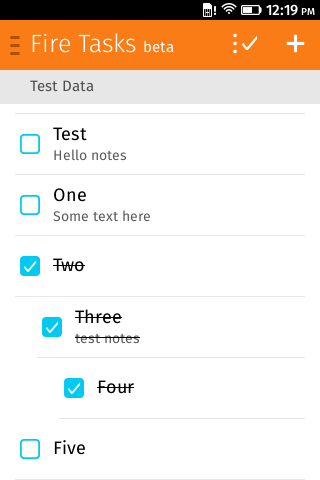
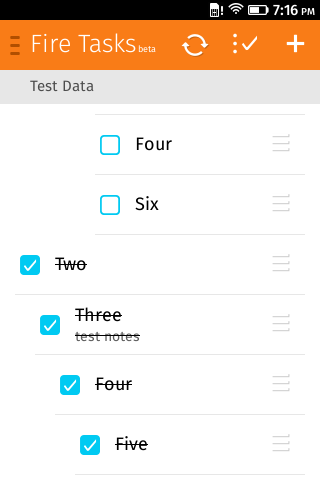
v0.3
- Screenshots updated

diff --git a/README.md b/README.md
@@ -76,10 +76,10 @@ or send mail concerning Fire Tasks to alex.fiator@gmail.com with 'Fire Tasks' in
 Screenshots
 -----------
 <p align="center">
-<img src="https://raw.github.com/koliada/FireTasks/gh-pages/screenshots/firetasks-02-tree-view.png" alt="screenshot2" height="310">&nbsp;
+<img src="https://raw.github.com/koliada/FireTasks/gh-pages/screenshots/firetasks-02-tree-view.png" alt="screenshot1" height="310">&nbsp;
+<img src="https://raw.github.com/koliada/FireTasks/gh-pages/screenshots/firetasks-01-edit-mode.png" alt="screenshot2" height="310">&nbsp;
 <img src="https://raw.github.com/koliada/FireTasks/gh-pages/screenshots/firetasks-03-task-lists.png" alt="screenshot3" height="310">&nbsp;
 <img src="https://raw.github.com/koliada/FireTasks/gh-pages/screenshots/firetasks-04-list-actions.png" alt="screenshot4" height="310">&nbsp;
 <img src="https://raw.github.com/koliada/FireTasks/gh-pages/screenshots/firetasks-05-list-modifying.png" alt="screenshot5" height="310">&nbsp;
 <img src="https://raw.github.com/koliada/FireTasks/gh-pages/screenshots/firetasks-06-task-modifying.png" alt="screenshot6" height="310">&nbsp;
-<img src="https://raw.github.com/koliada/FireTasks/gh-pages/screenshots/firetasks-07-settings.png" alt="screenshot7" height="310">&nbsp;
 </p>
